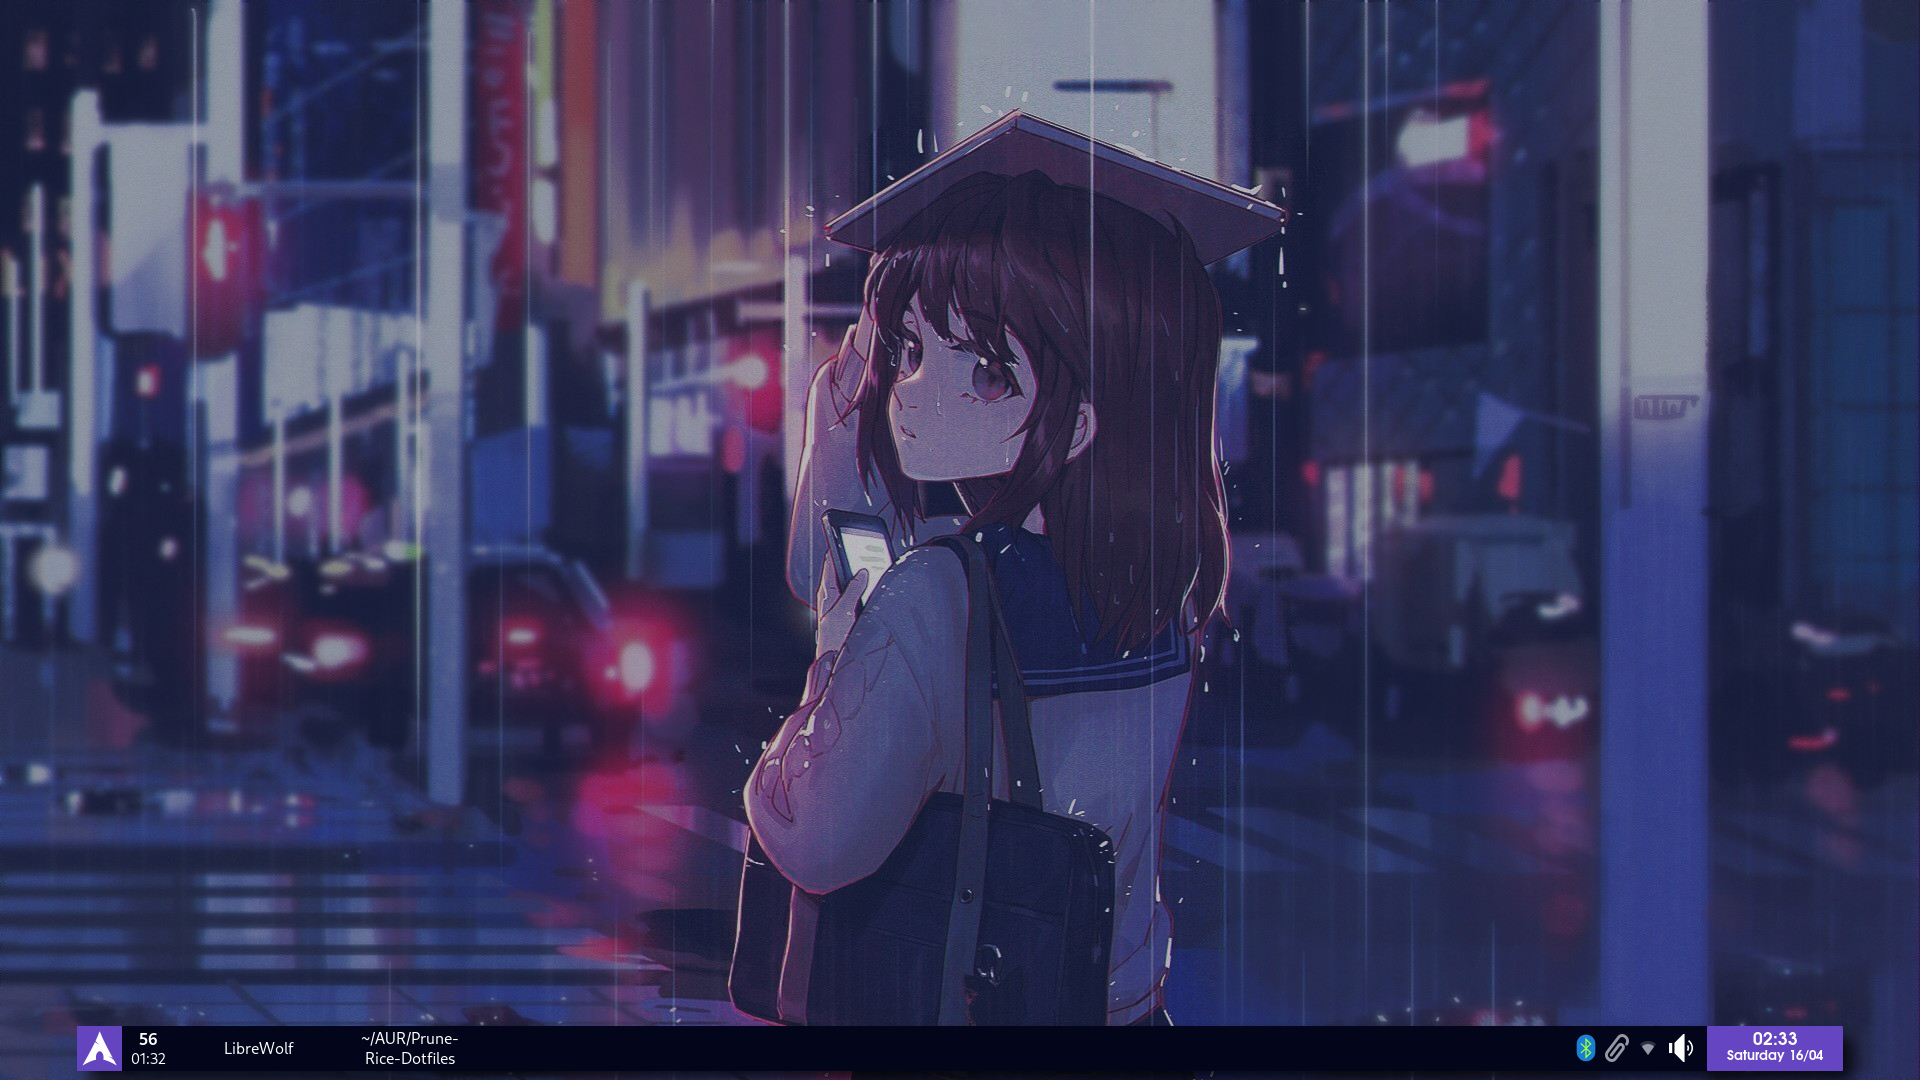
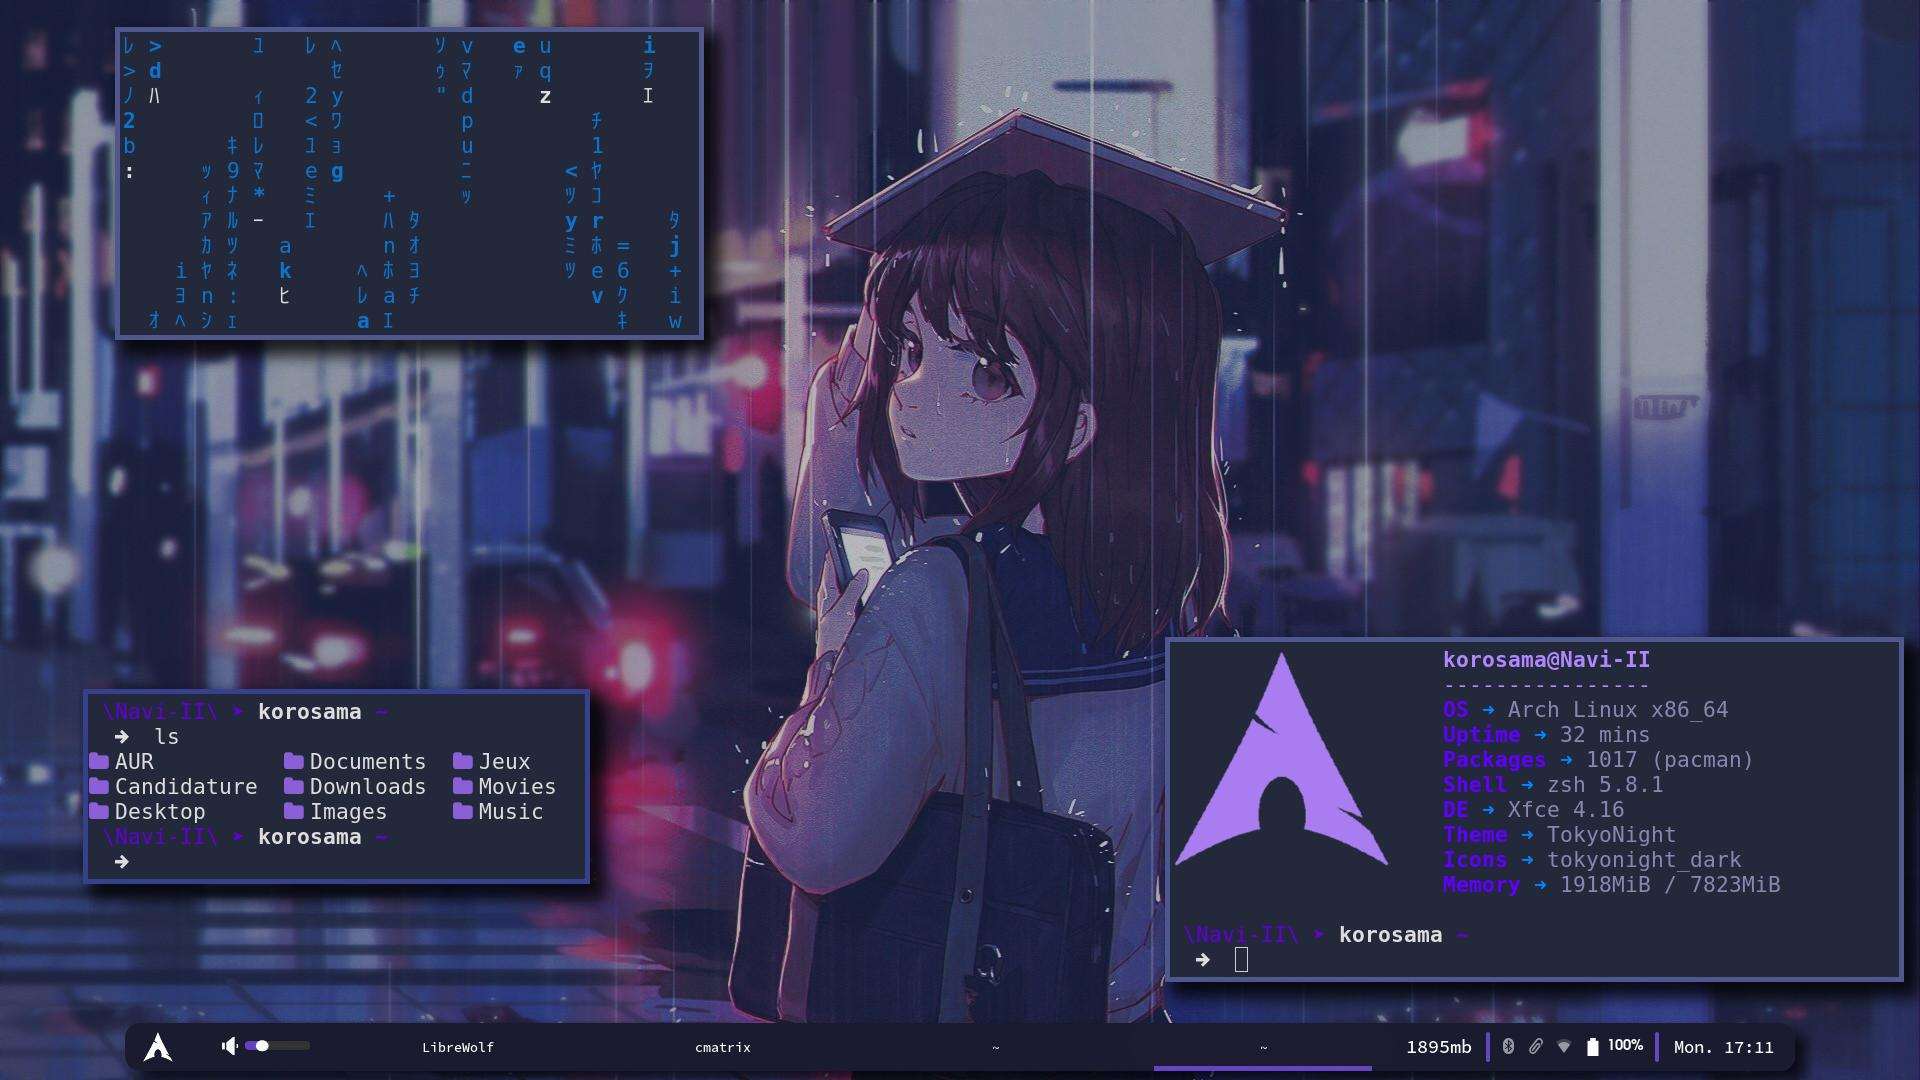
updated preview images

diff --git a/README.md b/README.md
@@ -1,16 +1,18 @@
 # Prune-Rice-Dotfiles
-All of the necessary files needed in order to replicate my rice. (WIP) <br/>
+All of the necessary files needed in order to replicate my rice. (Constantly WIP) <br/>
 <br/>
 <br/>
-**⚠ WARNING ⚠ the files available in this repo are intended to be used by people who know at least a little bit about what they're doing** <br/>
-**Simply cloning the repo into your home folder and not tweaking/putting the files in the right place won't work !** <br/>
 
-<br/>
-<br/>
-<br/>
 
 ![prev1](prev1.jpg)
 
+<br/>
+<br/>
+
+![prev2](prev2.jpg)
+
+<br/>
+<br/>
 
 * Feel free to reach out if you need help
 * Advice is apreciated 
